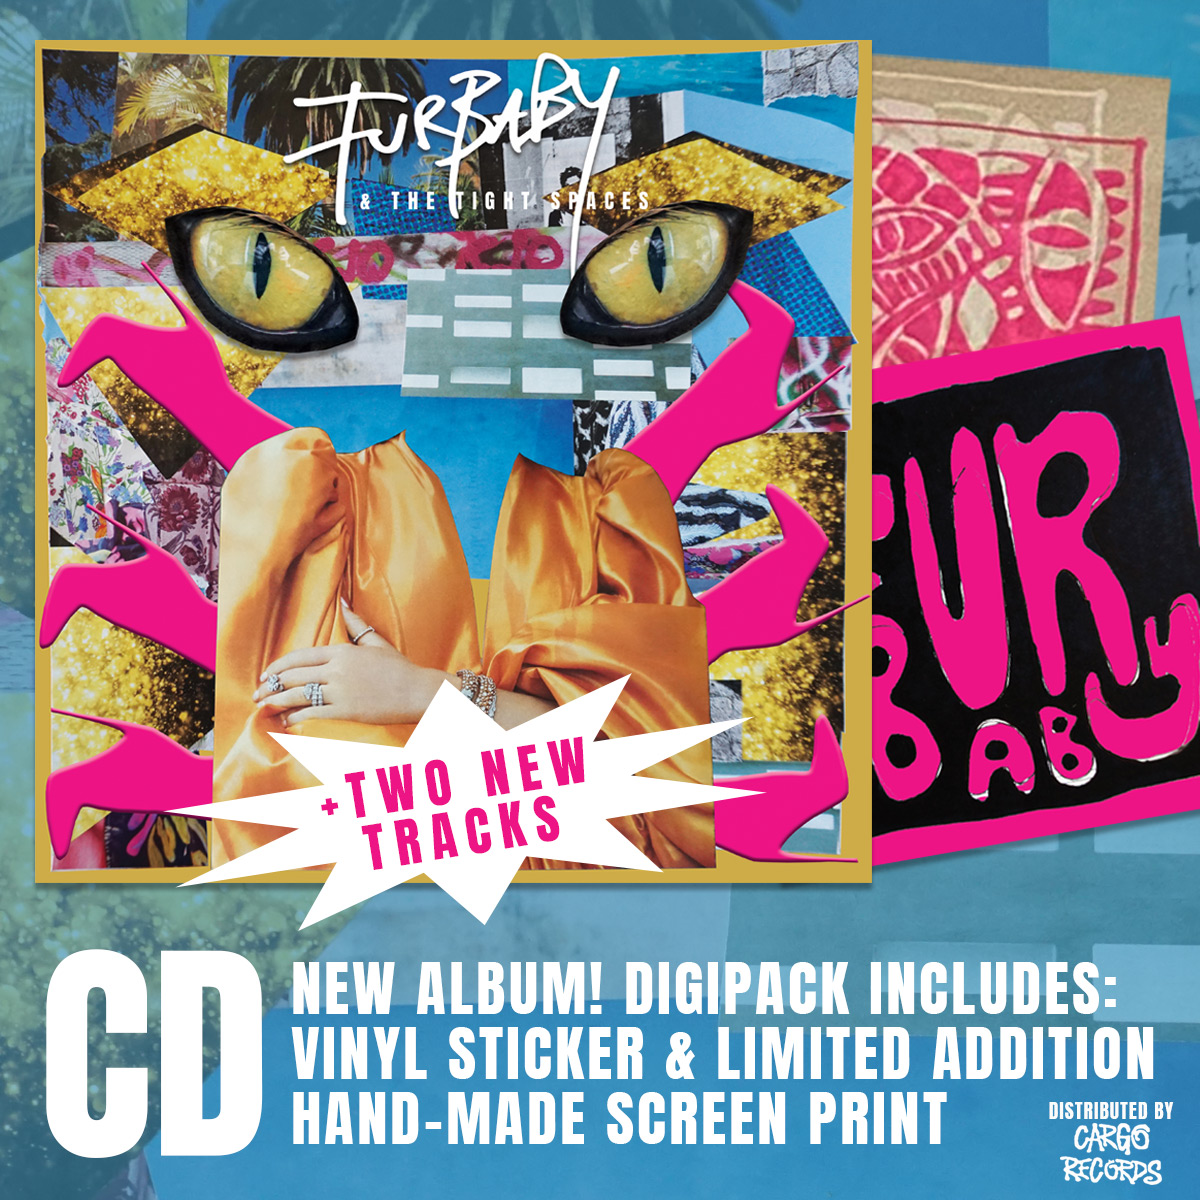
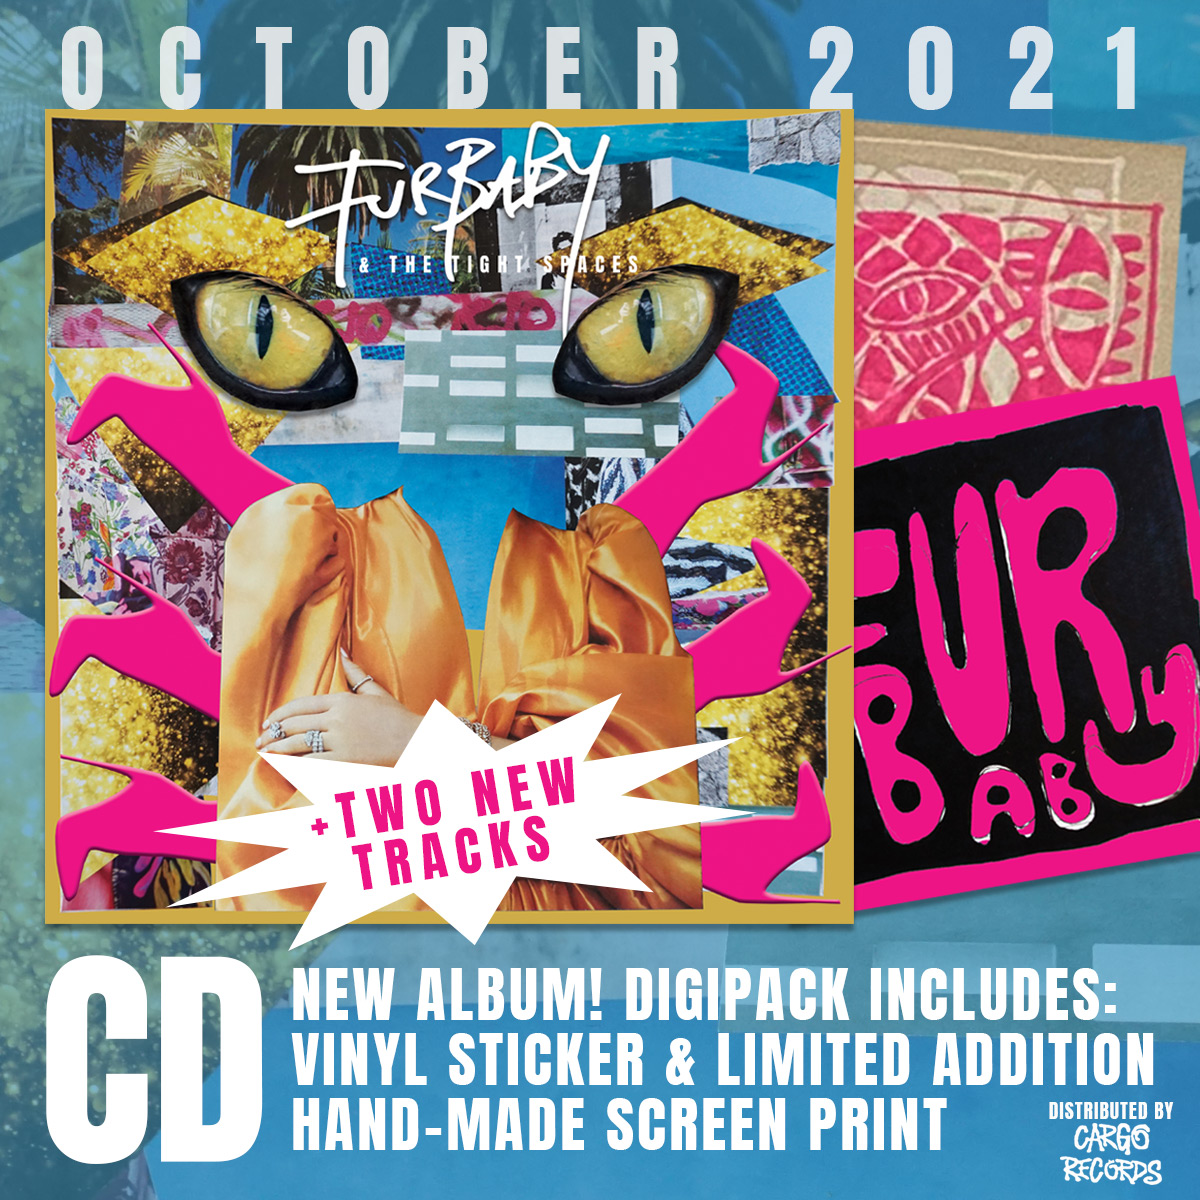
Clean up of new album promo assets and layout

diff --git a/components/cargo-promo.js b/components/cargo-promo.js
@@ -8,35 +8,35 @@ export default function CargoPromo() {
   return (
     <div className="bg-white text-gray-900">
       <Section>
-        <h3 className="pb-0">Full-length Album October 15, 2021</h3>
-        <h3 className="text-gray-600">Europe, UK, Japan</h3>
-        <div className="">
-          <div className="relative h-24 md:h-36 w-36 md:w-48 float-left mr-4">
-            <ExternalLink url="https://www.cargorecords.co.uk/">
-              <Image
-                src="/images/cargo-records.jpeg"
-                alt="Cargo Records"
-                layout="fill"
-                objectFit="cover"
-              />
-            </ExternalLink>
-          </div>
-          <p className="text-md md:text-xl">
-            <ExternalLink url="https://www.cargorecords.co.uk/">
-              Cargo Records UK
-            </ExternalLink>{" "}
-            will be distributing <FandTS /> full album of singles (including 2
-            unreleased tracks) on Vinyl and CD in UK/Europe/Japan. Release date:{" "}
-            <strong>OCTOBER 15, 2021</strong>
-          </p>
-        </div>
+        <h3>Full-length Album October 15, 2021 Europe, UK, Japan, USA</h3>
 
-        {/* <LinkButton
-          isInverted
-          href="https://cargorecordsdirect.co.uk/products/furbaby-the-tight-spaces-furbaby-the-tight-spaces"
-        >
-          Pre-Order the Album
-        </LinkButton> */}
+        <div className="relative h-24 md:h-36 w-36 md:w-48 float-left mr-4">
+          <ExternalLink url="https://www.cargorecords.co.uk/">
+            <Image
+              src="/images/cargo-records.jpeg"
+              alt="Cargo Records"
+              layout="fill"
+              objectFit="cover"
+            />
+          </ExternalLink>
+        </div>
+        <p className="text-md md:text-xl">
+          <ExternalLink url="https://www.cargorecords.co.uk/">
+            Cargo Records UK
+          </ExternalLink>{" "}
+          will be distributing <FandTS /> full album of singles (including 2
+          unreleased tracks) on Vinyl and CD in UK/Europe/Japan/USA. Release
+          date: <strong>OCTOBER 15, 2021</strong>
+        </p>
+
+        <div className="clear-both mt-8">
+          <LinkButton
+            isInverted
+            href="https://cargorecordsdirect.co.uk/products/furbaby-the-tight-spaces-furbaby-the-tight-spaces"
+          >
+            Pre-Order the Album
+          </LinkButton>
+        </div>
       </Section>
     </div>
   );

diff --git a/components/banner-new-album-promo.js b/components/banner-new-album-promo.js
@@ -10,18 +10,19 @@ const preOrderLink =
 
 function BannerNewAlbumPromo(props) {
   return (
-    <section className="flex flex-col items-center">
-      <div className="flex flex-col justify-center items-center md:flex-row">
-        <ExternalLink url={preOrderLink} noBorder>
-          <Image src={cdPromo} alt="New CD Cargo Records promo" />
-        </ExternalLink>
+    <section className="flex flex-col items-center mb-4">
+      <div className="flex flex-col justify-center items-top md:flex-row">
+        <div className="flex flex-col items-center">
+          <ExternalLink url={preOrderLink} noBorder>
+            <Image src={cdPromo} alt="New CD Cargo Records promo" />
+          </ExternalLink>
+          <div className="mt-2 mb-6">
+            <LinkButton href={preOrderLink}>Pre-Order Now</LinkButton>
+          </div>
+        </div>
         <ExternalLink url={preOrderLink} noBorder>
           <Image src={lpPromo} alt="New vinyl LP Cargo Records promo" />
         </ExternalLink>
-      </div>
-
-      <div className="my-6">
-        <LinkButton href={preOrderLink}>Pre-Order Now</LinkButton>
       </div>
     </section>
   );

diff --git a/components/link-button.js b/components/link-button.js
@@ -1,13 +1,17 @@
 import Link from "next/link";
 
 const sharedClasses = [
-  "py-2 px-8 tracking-widest rounded text-xl uppercase inline-block",
+  "py-4 px-12 tracking-widest text-2xl uppercase inline-block",
 ];
 
 export default function LinkButton({ children, href, isInverted }) {
   return isInverted ? (
     <Link href={href}>
-      <a className="bg-black hover:bg-gray-800 text-gray-100 font-sans  hover:text-gray-200 border-none">
+      <a
+        className={`${[
+          ...sharedClasses,
+        ]} bg-gray-800 hover:bg-gray-800 text-gray-100 font-sans  hover:text-gray-200 border-none`}
+      >
         {children}
       </a>
     </Link>

diff --git a/components/splash-photos.js b/components/splash-photos.js
@@ -21,11 +21,11 @@ function SplashPhotos(props) {
             image: "images/banner-box.jpg",
           },
         ]}
-        style={{ height: "30vh" }}
+        style={{ height: "50vh" }}
       >
         <ParallaxBannerChildren>
           <div className="container flex flex-col items-center">
-            <h2>Photos</h2>
+            <h2 className="banner-headline">Photos</h2>
           </div>
         </ParallaxBannerChildren>
       </ParallaxBanner>

diff --git a/styles/styles.css b/styles/styles.css
@@ -4,10 +4,10 @@
 
 @layer base {
   h1 {
-    @apply text-4xl md:text-6xl py-4 font-sans uppercase tracking-widest;
+    @apply text-5xl md:text-6xl py-4 font-sans uppercase tracking-widest;
   }
   h2 {
-    @apply text-4xl md:text-5xl py-4 font-sans uppercase tracking-widest;
+    @apply text-5xl md:text-5xl py-4 font-sans uppercase tracking-widest;
   }
   h3 {
     @apply text-3xl md:text-4xl py-4 font-sans uppercase tracking-widest;

diff --git a/pages/index.js b/pages/index.js
@@ -44,10 +44,11 @@ export default function Home({ photo }) {
       </section> */}
 
       <IntroParagraph />
+      <BannerNewAlbumPromo />
+
       <BannerReggies />
 
       <CargoPromo />
-      <BannerNewAlbumPromo />
 
       <SplashPhotos />
       <SplashVideos />
